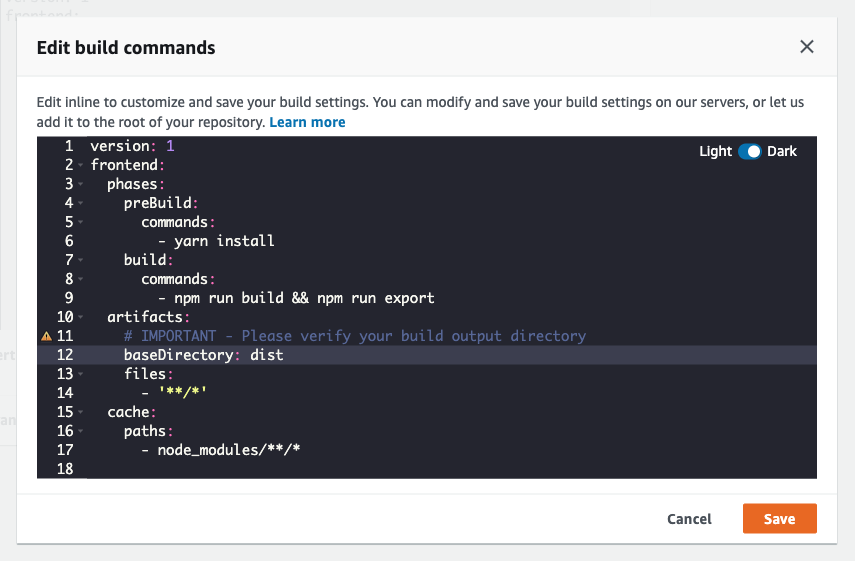
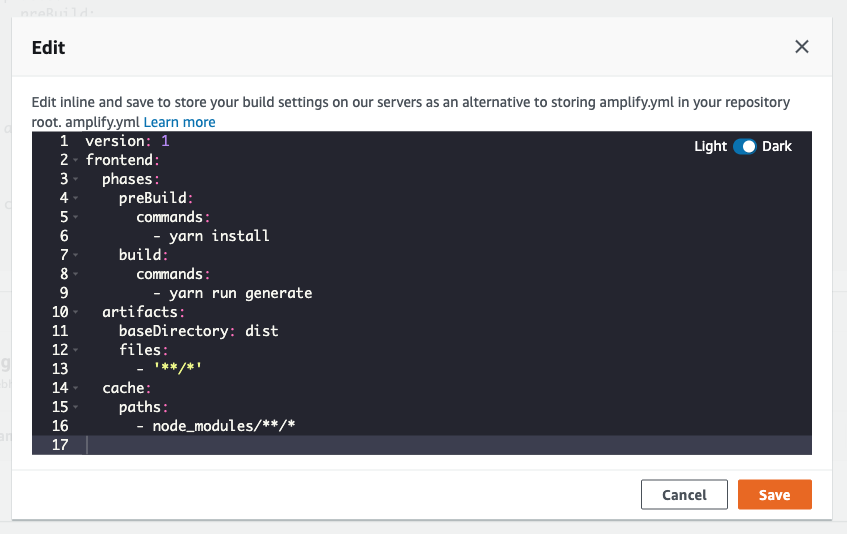
updated nuxt guide

diff --git a/docs/guides/hosting/fragments/nuxt.md b/docs/guides/hosting/fragments/nuxt.md
@@ -58,7 +58,7 @@ In the next screen, choose your repository and branch and click __Next__:
 
 In the __App build and test settings__ view, click __Edit__ and do the following:
 
-1. Set the __build__ commands to: `npm run build && npm run export`
+1. Set the __build__ command to: `npm run generate`
 2. Set the `baseDirectory` location to be `dist`
 3. Click __Save__
 4. Click __Next__
@@ -69,6 +69,6 @@ Finally, click __Save and deploy__.
 
 Once your site has successfully deployed, you should see three green checkmarks:
 
-![Nuxt Hosting with Amplify Console - Deployment complete](~/images/hosting/nuxt/5.png)
+![Nuxt Hosting with Amplify Console - Deployment complete](~/images/hosting/nuxt/6.png)
 
 To view the live site, click on the automatically generated URL given to you by the Amplify Console.
